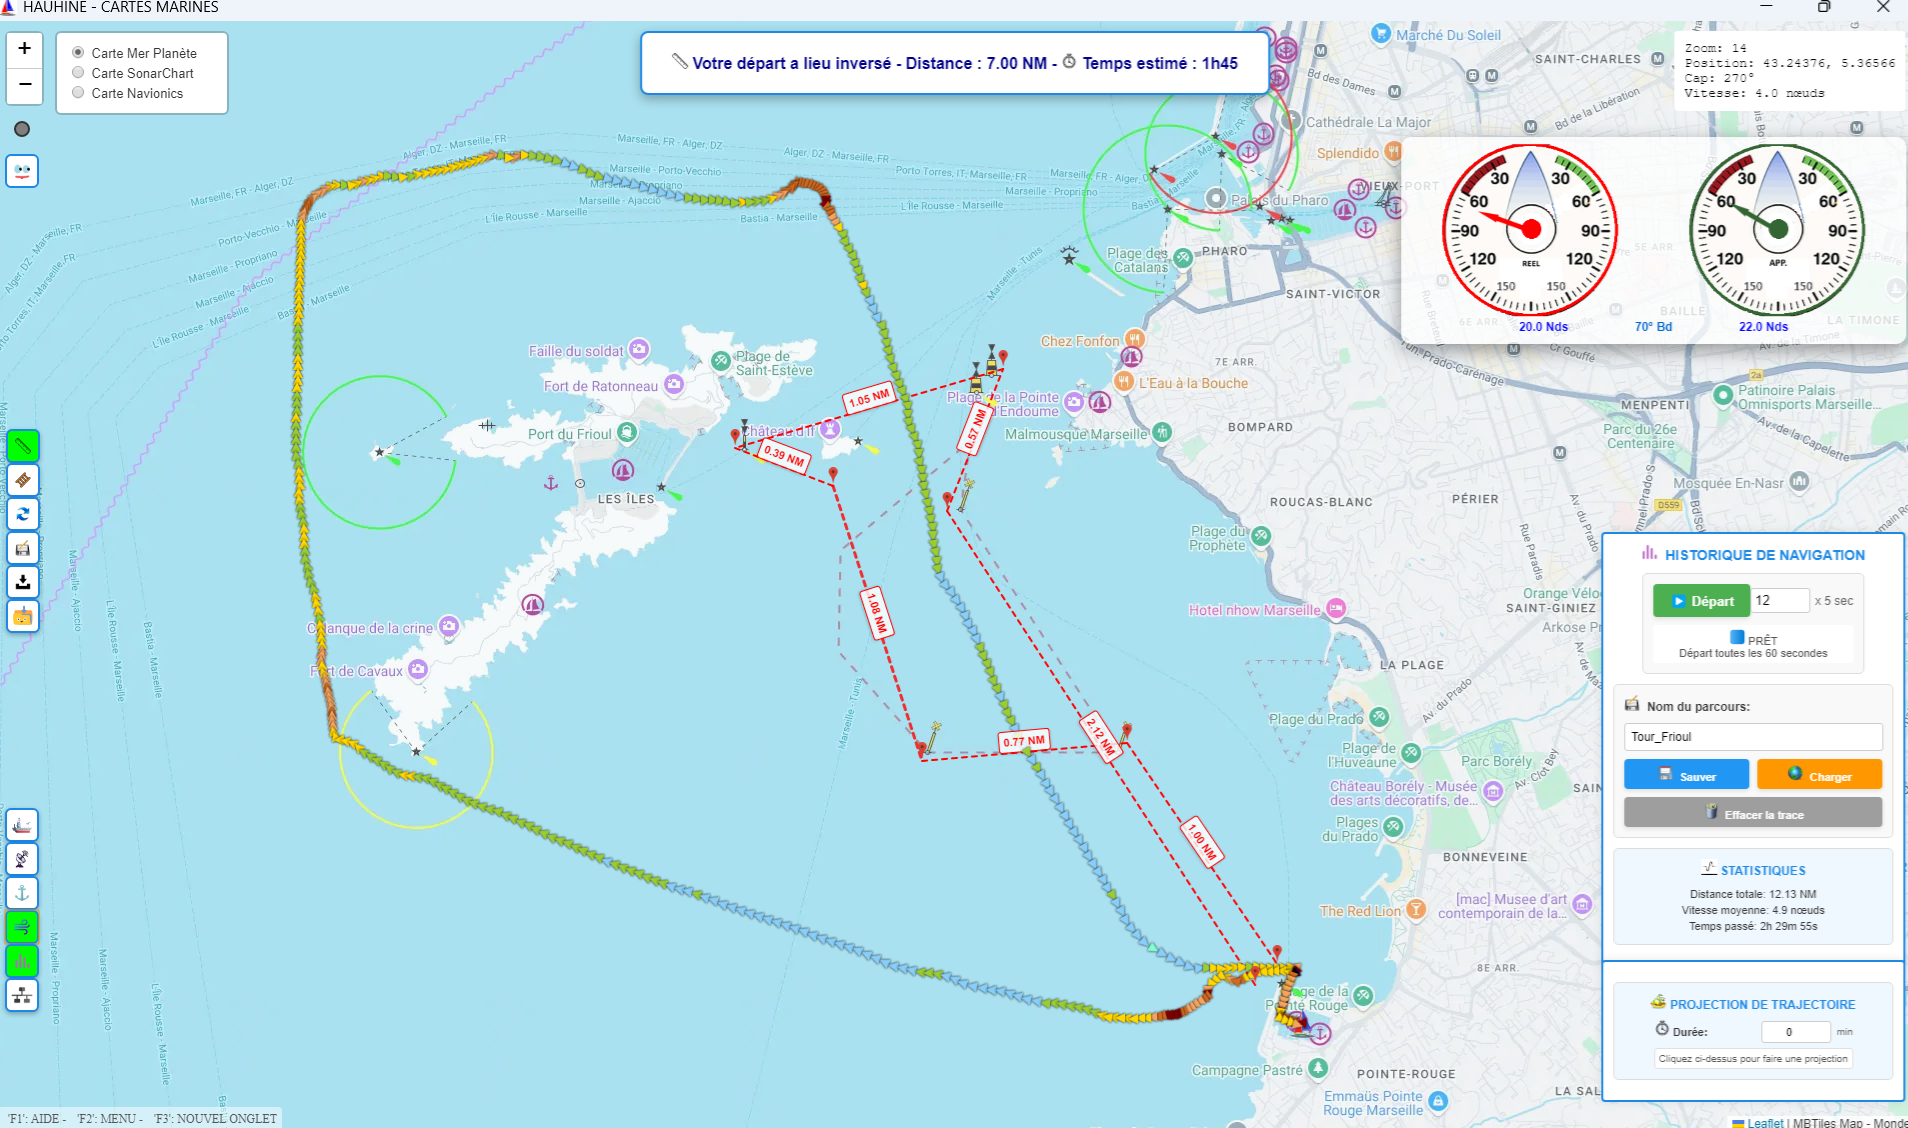
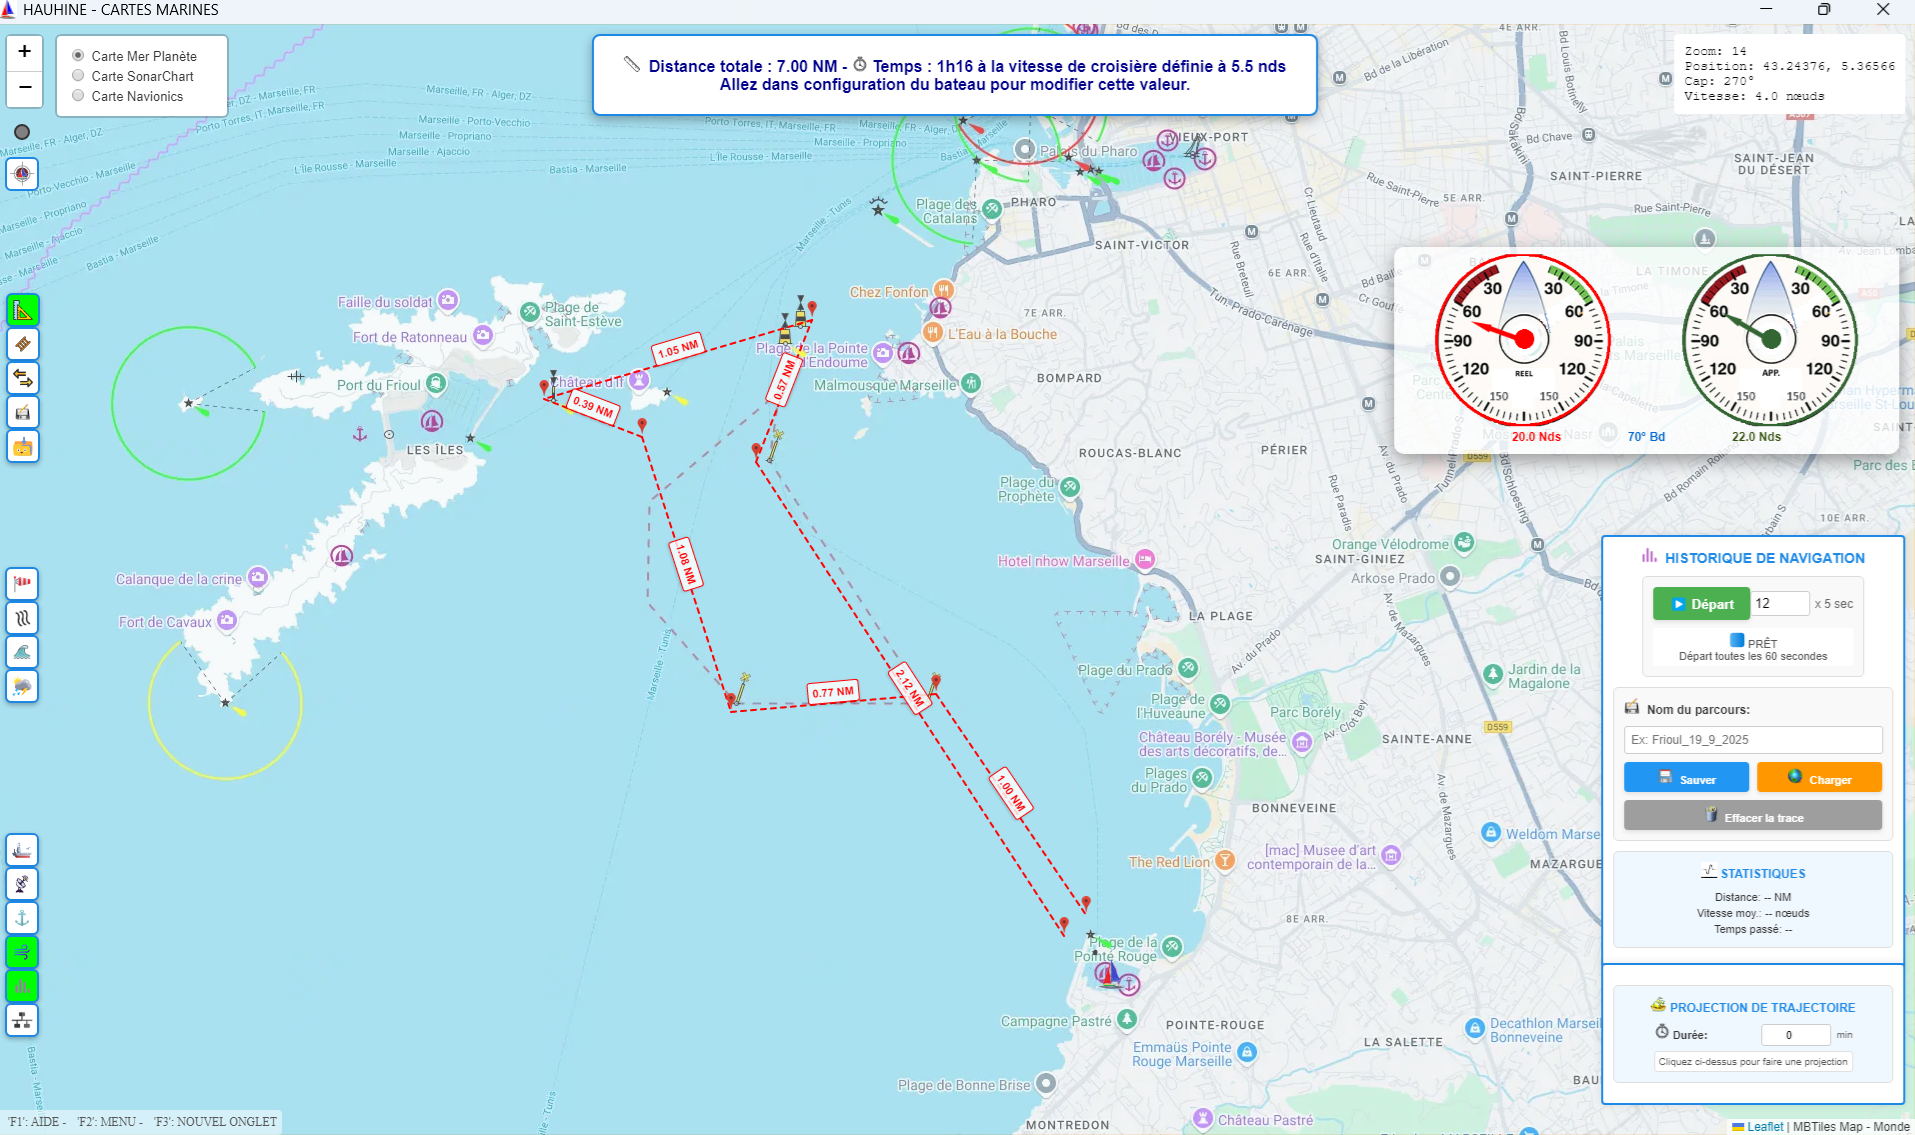
Commit

diff --git a/aide/templates/install.html b/aide/templates/install.html
@@ -151,7 +151,9 @@
         en laissant les numéros de trames de côté, peut-être en prenant les 6 octets pour la trame 0 et les 7 octets pour les autres de poids fort, simplement sur les
         trames qui ont plus de 8 octets (fast-packet PGN) et je pense qu'il prend toutes les trames d'un même PGN et aprés qu'il lance le décodage de tous les bits,
         moi, je décode trame par trame et je fais une mise en mémoire pour les trames dont les codes se situent sur
-        plusieurs trames.<br>
+        plusieurs trames.<br> J'ai maintenant inclus la météo avec les fichiers 'grib', que je décode avec 'eccodes' et je convertis en '.json' puis j'affiche
+    les vents, les rafales et les isobares, j'ai prévu d'inclure aussi l'état de la mer et les orages (CAPE).
+
 
     </div>
     <div class="conclusion-box info">

diff --git a/templates/index.html b/templates/index.html
@@ -53,7 +53,7 @@
 </div>
 
 <!-- Bouton centrer sur le bateau -->
-<button class="center-button" onclick="centerOnBoat()" title="Centrer sur le bateau"><img src="{{ url_for('static', filename='icone/yeux.png') }}" alt="Centrer" width="16" height="16"></button>
+<button class="center-button" onclick="centerOnBoat()" title="Centrer sur le bateau"><img src="{{ url_for('static', filename='icone/yeux.png') }}" alt="Centrer" width="26" height="26"></button>
 
 <!-- Voyant vous êtes connecté au NMEA 2000 -->
 <div id="status-indicator" class="status-indicator" title="Inactif : Vous n'êtes pas connecté au NMEA 2000"></div>

diff --git a/static/js/mon.js b/static/js/mon.js
@@ -1713,7 +1713,7 @@ const measureTool = {
 
             div.innerHTML = `
                 <a href="#" id="distanceMeasureButton" class="measure-button" title="Etablir les distances d'une route.">
-                    <img src="./static/icone/mesure.png" alt="Mesure" width="16" height="16">
+                    <img src="./static/icone/regle.png" alt="Mesure" width="20" height="20">
                 </a>
                 <a href="#" id="toggle-labels" class="measure-button" title="Masquer les étiquettes de distance.">
                     <img src="./static/icone/distance.png" alt="Mesure" width="16" height="16">
